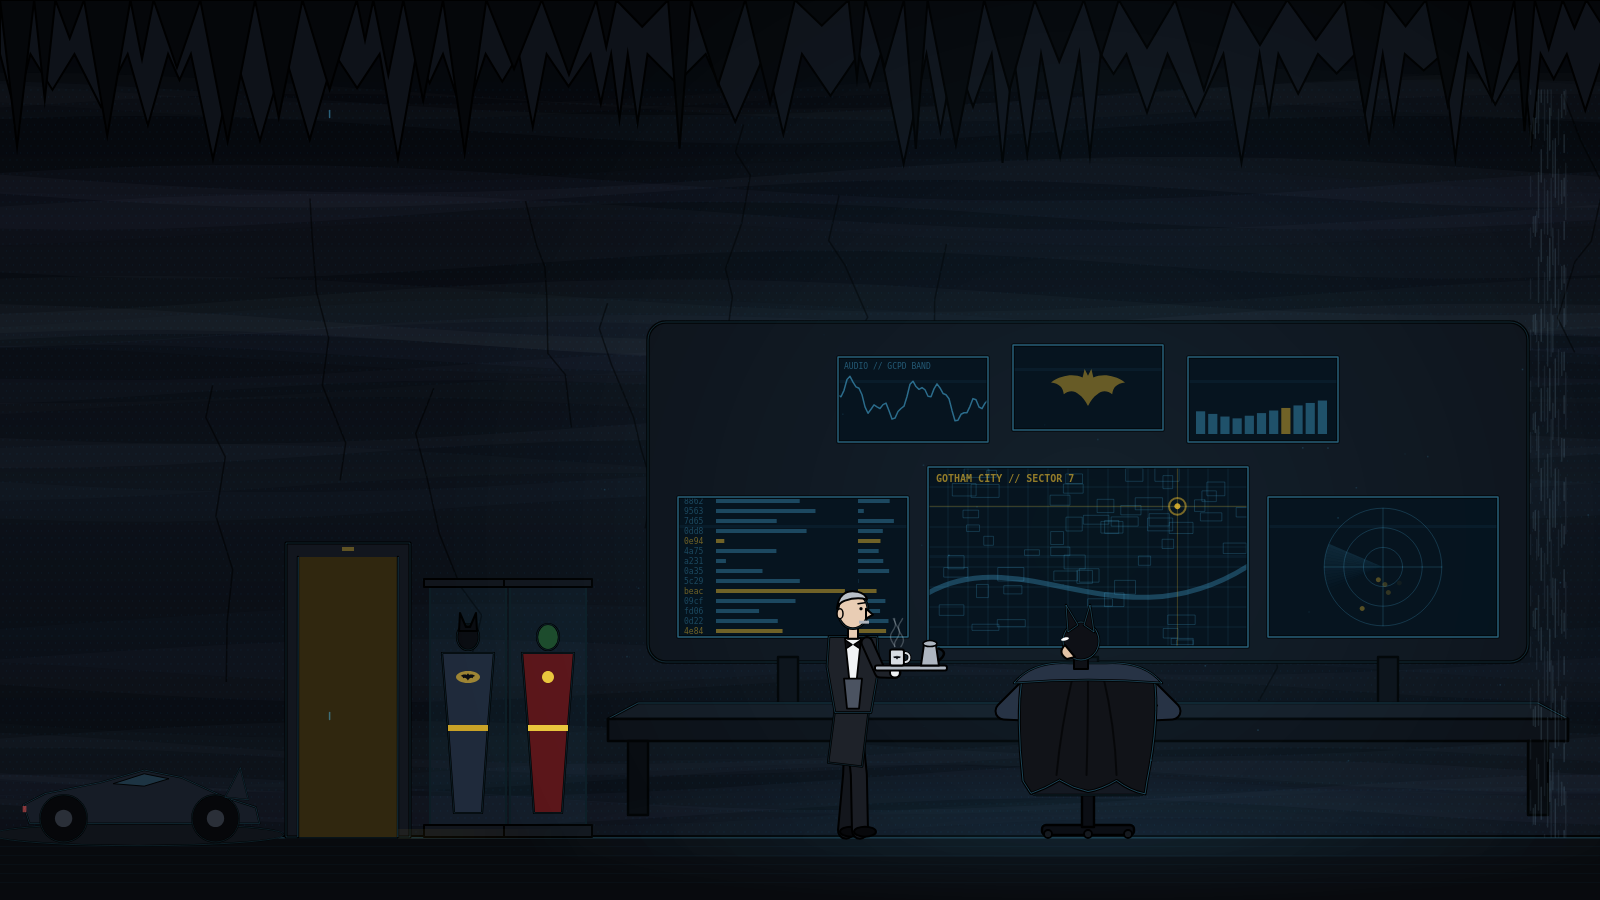
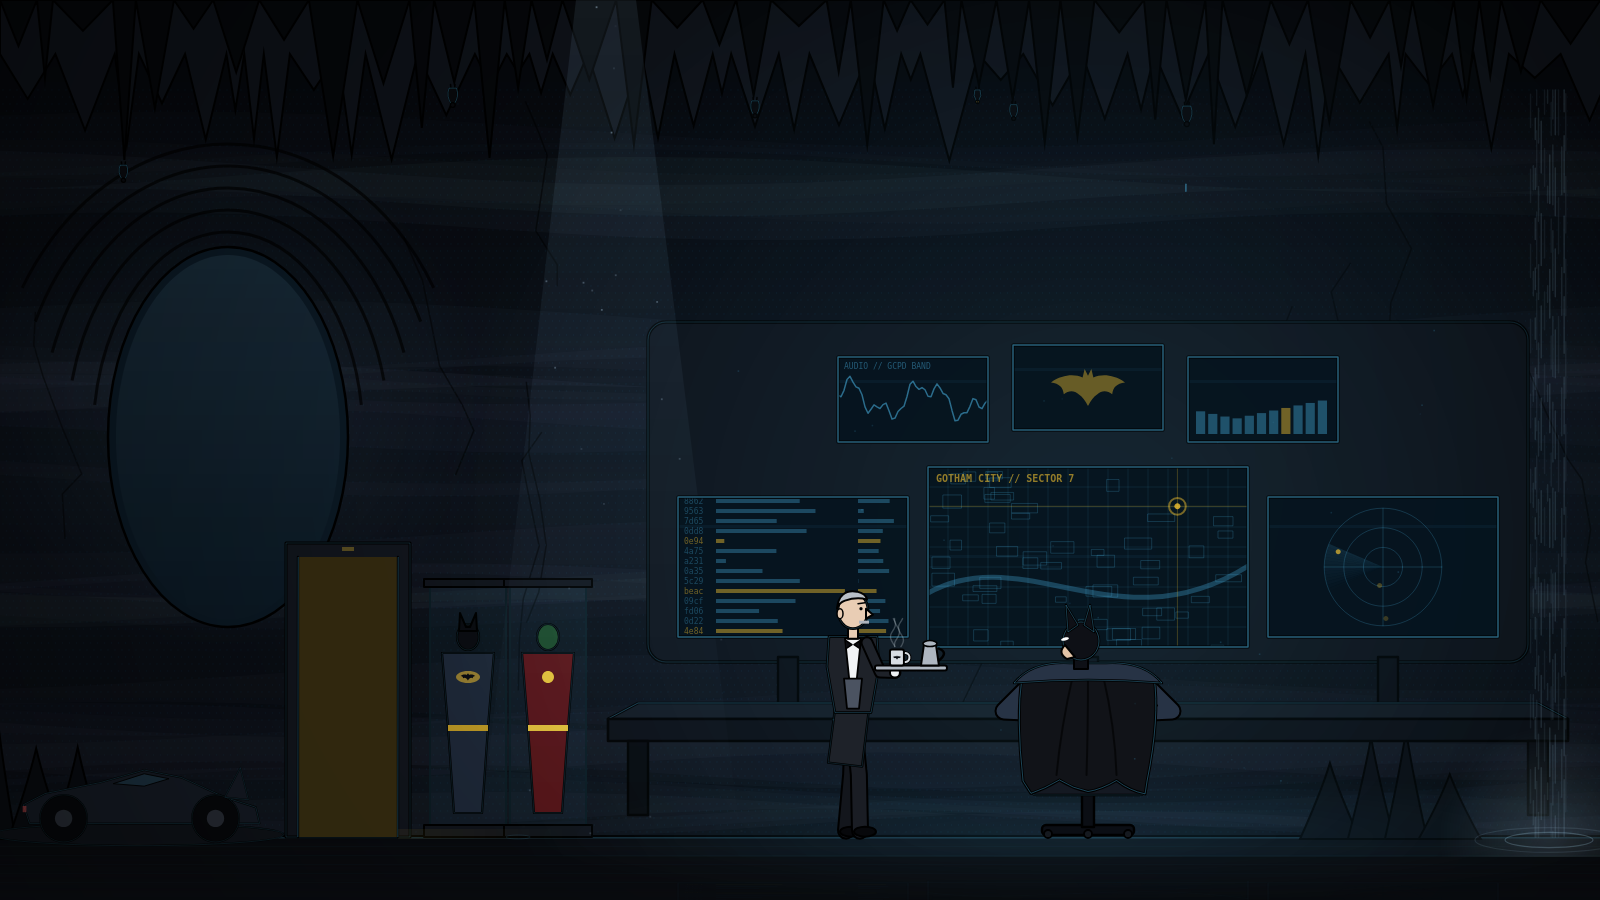
Scene depth: tunnel, moonlight shaft, stalagmites, hanging bats, pool, reflections, vignette

diff --git a/overlays/ambient.html b/overlays/ambient.html
@@ -104,6 +104,20 @@
     for (let y = H * 0.1; y < fy; y += sp) for (let x = (y / sp % 2) * sp / 2; x < W; x += sp) { g.moveTo(x + rr, y); g.arc(x, y, rr, 0, 7) }
     g.fill()
 
+    // Far tunnel: a cool opening deep in the back wall, with mist.
+    {
+      const tx = cx - 860 * S, ty = fy - 440 * S
+      const tg = g.createRadialGradient(tx, ty, 10 * S, tx, ty, 260 * S)
+      tg.addColorStop(0, 'rgba(120,190,230,.16)'); tg.addColorStop(0.45, 'rgba(90,150,190,.06)'); tg.addColorStop(1, 'rgba(60,110,150,0)')
+      g.fillStyle = tg; g.fillRect(tx - 300 * S, ty - 300 * S, 600 * S, 640 * S)
+      g.fillStyle = '#0b1a26'; g.beginPath(); g.ellipse(tx, ty + 40 * S, 120 * S, 190 * S, 0, 0, 7); g.fill()
+      g.strokeStyle = INK; g.lineWidth = 2.5 * S; g.stroke()
+      const ig = g.createLinearGradient(0, ty - 150 * S, 0, ty + 230 * S)
+      ig.addColorStop(0, 'rgba(140,200,235,.10)'); ig.addColorStop(1, 'rgba(140,200,235,0)')
+      g.fillStyle = ig; g.beginPath(); g.ellipse(tx, ty + 40 * S, 112 * S, 182 * S, 0, 0, 7); g.fill()
+      g.strokeStyle = 'rgba(0,0,0,.7)'; g.lineWidth = 3 * S
+      for (let k = 0; k < 5; k++) { g.beginPath(); g.ellipse(tx, ty + 40 * S, (135 + k * 26) * S, (205 + k * 22) * S, 0, Math.PI * (1.05 + k * 0.03), Math.PI * (1.95 - k * 0.03)); g.stroke() }
+    }
     tips = []
     const row = (base, maxL, col, rec) => {
       g.fillStyle = col; g.beginPath(); g.moveTo(0, 0)
@@ -123,6 +137,17 @@
     g.fillStyle = INK; g.fillRect(0, fy - 2 * S, W, 2.5 * S)
     g.fillStyle = rgba(BLUE, 0.2); g.fillRect(0, fy, W, Math.max(1, 1.5 * S))
     for (let i = 1; i < 6; i++) { g.fillStyle = rgba(BLUE, 0.03); g.fillRect(0, fy + i * 9 * S, W, 1) }
+
+    // Floor stalagmites along the back edge (behind the props).
+    g.fillStyle = '#090c11'; g.strokeStyle = INK; g.lineWidth = 2 * S
+    for (const [x0, n] of [[-20 * S, 3], [W - 300 * S, 4]]) {
+      let x = x0
+      for (let i = 0; i < n; i++) {
+        const w = R(30, 70) * S, h = R(50, 140) * S
+        g.beginPath(); g.moveTo(x, fy + 2); g.quadraticCurveTo(x + w * 0.35, fy - h * 0.6, x + w / 2, fy - h); g.quadraticCurveTo(x + w * 0.65, fy - h * 0.6, x + w, fy + 2); g.closePath(); g.fill(); g.stroke()
+        x += w * 0.8
+      }
+    }
 
     g.save(); g.translate(cx, fy); g.scale(S, S)
     const ux = px => (px - cx) / S
@@ -186,6 +211,10 @@
     g.restore()
 
     row(0, 160, '#05070a', true)
+    // Vignette.
+    const vg = g.createRadialGradient(W * 0.55, H * 0.5, H * 0.35, W * 0.55, H * 0.5, W * 0.75)
+    vg.addColorStop(0, 'rgba(0,0,0,0)'); vg.addColorStop(1, 'rgba(0,0,0,.55)')
+    g.fillStyle = vg; g.fillRect(0, 0, W, H)
   }
 
   // ---------- screens ----------
@@ -278,7 +307,7 @@
     ctx.save(); ctx.globalCompositeOperation = 'lighter'
     const fl = 0.9 + 0.1 * Math.sin(t * 7) * Math.sin(t * 2.3)
     const g = ctx.createRadialGradient(0, -300, 10, 0, -300, 650)
-    g.addColorStop(0, rgba(BLUE, 0.08 * fl)); g.addColorStop(1, rgba(BLUE, 0))
+    g.addColorStop(0, rgba(BLUE, 0.11 * fl)); g.addColorStop(1, rgba(BLUE, 0))
     ctx.fillStyle = g; ctx.fillRect(-700, -900, 1400, 920)
     const f = ctx.createRadialGradient(0, 0, 10, 0, 0, 560)
     f.addColorStop(0, rgba(BLUE, 0.07 * fl)); f.addColorStop(1, rgba(BLUE, 0))
@@ -534,12 +563,71 @@
     if (!alive) { swarm = null; nextSwarm = t + R(22, 45) }
   }
 
+  // ---------- moonlight shaft through a gap in the roof ----------
+  const motes = Array.from({ length: 26 }, () => ({ u: Math.random(), v: Math.random(), sp: R(0.01, 0.03), p: R(0, 7) }))
+  function shaft(dt) {
+    const x0 = W * 0.36, w0 = 60 * S, x1 = W * 0.30, w1 = 260 * S
+    const pulse = 0.9 + 0.1 * Math.sin(t * 0.4)
+    ctx.save(); ctx.globalCompositeOperation = 'lighter'
+    const g = ctx.createLinearGradient(0, 0, 0, fy)
+    g.addColorStop(0, `rgba(150,200,235,${0.10 * pulse})`); g.addColorStop(1, 'rgba(150,200,235,0)')
+    ctx.fillStyle = g
+    ctx.beginPath(); ctx.moveTo(x0, 0); ctx.lineTo(x0 + w0, 0); ctx.lineTo(x1 + w1, fy); ctx.lineTo(x1, fy); ctx.closePath(); ctx.fill()
+    for (const m of motes) {
+      m.v += m.sp * dt; if (m.v > 1) { m.v = 0; m.u = Math.random() }
+      const y = m.v * fy, xl = lerp(x0, x1, m.v), xw = lerp(w0, w1, m.v)
+      ctx.fillStyle = `rgba(200,230,250,${0.35 * (0.5 + 0.5 * Math.sin(t * 1.7 + m.p)) * (1 - m.v * 0.6)})`
+      ctx.fillRect(xl + m.u * xw + Math.sin(t * 0.6 + m.p) * 6 * S, y, 1.8 * S, 1.8 * S)
+    }
+    ctx.restore()
+  }
+  function reflection() {
+    // Faint mirror of the screens in the polished floor.
+    ctx.save()
+    ctx.setTransform(S, 0, 0, -S * 0.22, cx, fy + 2)
+    ctx.globalAlpha = 0.09
+    screens()
+    ctx.setTransform(1, 0, 0, 1, 0, 0); ctx.globalAlpha = 1
+    const fade = ctx.createLinearGradient(0, fy, 0, fy + 120 * S)
+    fade.addColorStop(0, 'rgba(8,10,14,0)'); fade.addColorStop(1, 'rgba(8,10,14,1)')
+    ctx.fillStyle = fade; ctx.fillRect(0, fy, W, 120 * S)
+    ctx.restore()
+  }
+  const roost = Array.from({ length: 6 }, () => ({ k: Math.random(), p: R(0, 7), s: R(5, 8) }))
+  function hangingBats() {
+    if (!tips.length) return
+    for (const b of roost) {
+      const tip = tips[Math.floor(b.k * tips.length)]
+      const sw = Math.sin(t * 1.2 + b.p) * 1.5 * S, s = b.s * S
+      ctx.save(); ctx.translate(tip[0] + sw, tip[1] + 2)
+      ctx.lineWidth = 1.5; ctx.strokeStyle = INK; ctx.beginPath(); ctx.moveTo(-s * 0.3, 0); ctx.lineTo(-s * 0.25, s * 0.5); ctx.moveTo(s * 0.3, 0); ctx.lineTo(s * 0.25, s * 0.5); ctx.stroke()
+      ink('#07080b', () => { ctx.moveTo(-s * 0.5, s * 0.5); ctx.quadraticCurveTo(-s * 0.9, s * 1.6, -s * 0.2, s * 2.6); ctx.lineTo(s * 0.2, s * 2.6); ctx.quadraticCurveTo(s * 0.9, s * 1.6, s * 0.5, s * 0.5) }, 1.4, 0.25)
+      ink('#07080b', () => ctx.arc(0, s * 2.75, s * 0.32, 0, 7), 1.2, 0)
+      if (Math.sin(t * 0.9 + b.p * 3) > 0.985) { ctx.fillStyle = rgba(GOLD, 0.9); ctx.fillRect(-s * 0.2, s * 2.7, s * 0.12, s * 0.1); ctx.fillRect(s * 0.08, s * 2.7, s * 0.12, s * 0.1) }
+      ctx.restore()
+    }
+  }
+  function pool() {
+    const wx = W - 51 * S
+    ctx.save()
+    for (let k = 0; k < 3; k++) {
+      const u = ((t * 0.5) + k / 3) % 1
+      ctx.strokeStyle = `rgba(170,215,240,${0.35 * (1 - u)})`; ctx.lineWidth = 1.2
+      ctx.beginPath(); ctx.ellipse(wx, fy + 3 * S, (14 + u * 90) * S, (3 + u * 14) * S, 0, 0, 7); ctx.stroke()
+    }
+    const mg = ctx.createRadialGradient(wx, fy, 5 * S, wx, fy, 110 * S)
+    mg.addColorStop(0, `rgba(190,225,245,${0.12 + 0.03 * Math.sin(t * 2)})`); mg.addColorStop(1, 'rgba(190,225,245,0)')
+    ctx.fillStyle = mg; ctx.fillRect(wx - 120 * S, fy - 110 * S, 240 * S, 130 * S)
+    ctx.restore()
+  }
+
   // ---------- frame ----------
   function frame(dt) {
     t += dt
     ctx.setTransform(1, 0, 0, 1, 0, 0)
     ctx.drawImage(stat, 0, 0)
-    waterfall()
+    shaft(dt); waterfall(); pool(); hangingBats()
+    reflection()
     ctx.setTransform(S, 0, 0, S, cx, fy)
     glow(); screens(); alfred(dt)
     if (mug) drawMug(mug.x, DESK - 16, clamp(1 - (t - mug.born) / 90, 0, 1))
